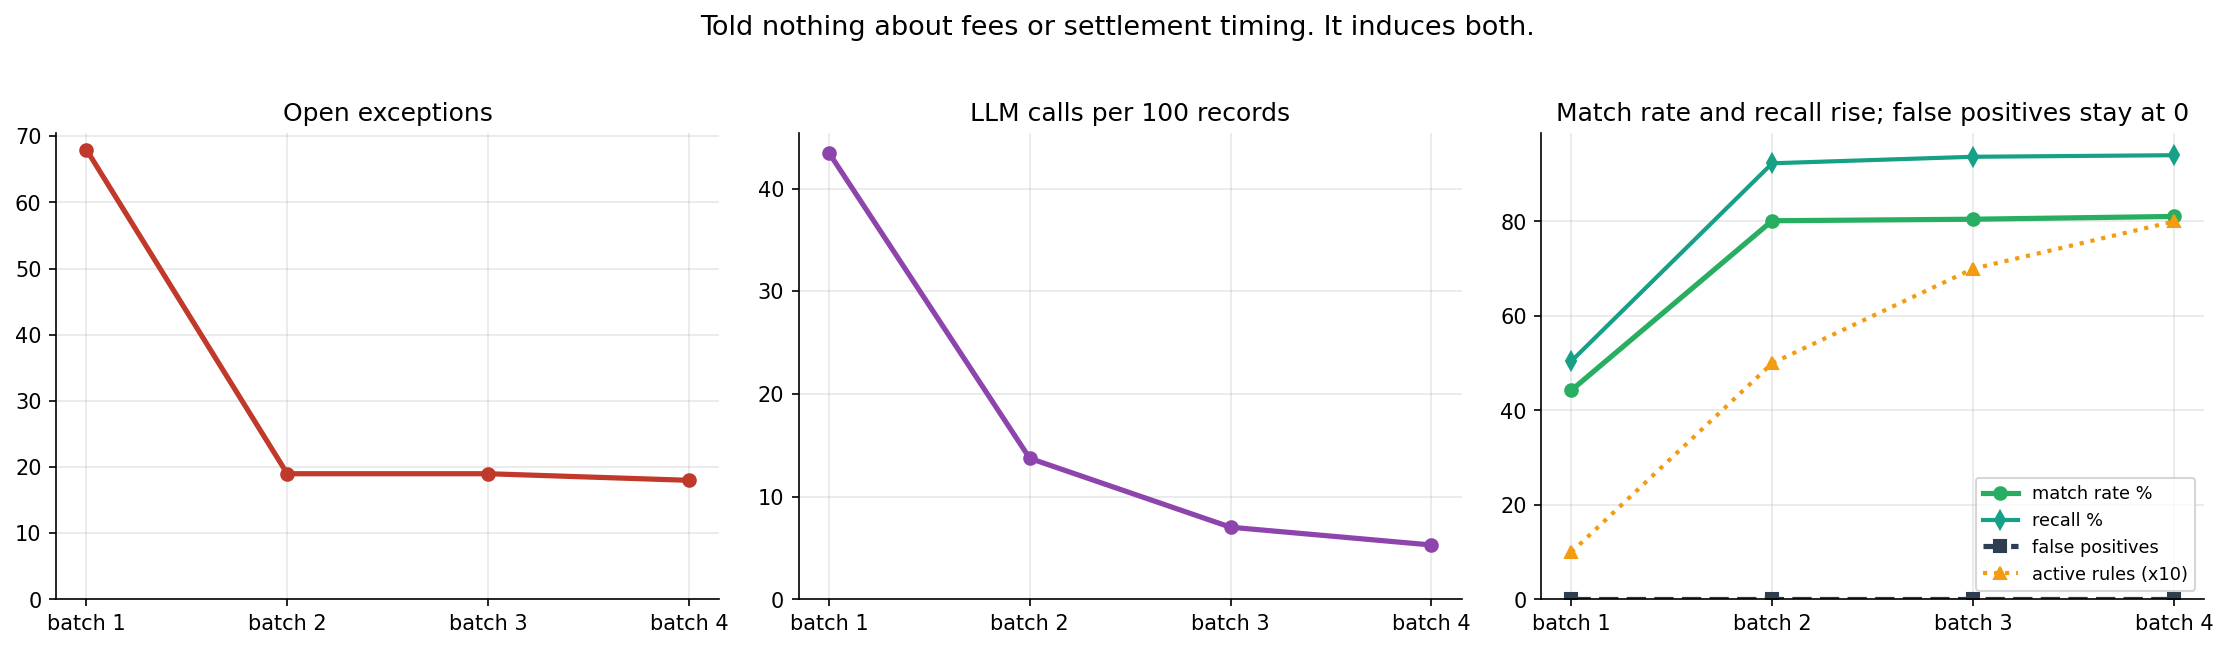
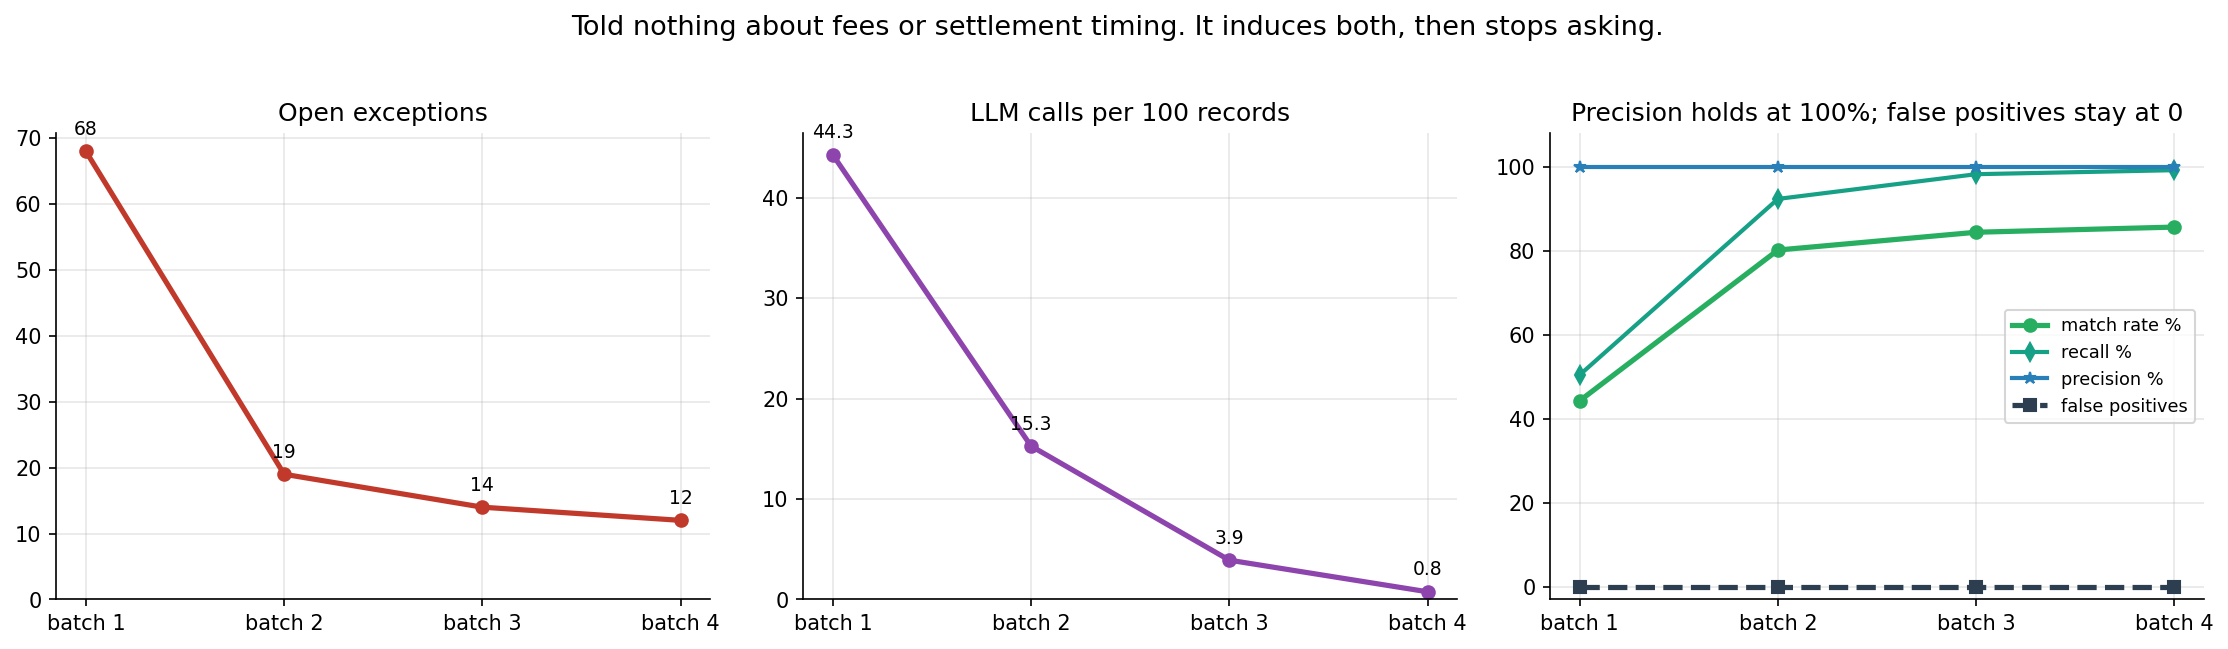
Induce refunds too, and stop rejecting rules for lack of evidence
Follows the discovery leg. Four more defects, each of the same family: a rule
type that could never be learned because something structural stood in the way
before any evidence could accumulate.

A refund rule is scoped library-wide, not per instrument. A partial refund is
the same phenomenon whichever way the customer paid, and asking per instrument
split an already thin pool four ways so nothing reached enough examples.

INAPPLICABLE, not False, when the ledger does not say an order was refunded.
In the matching path the two are equivalent (both fall through to the next
rule), but the backtest reads False as "contradicts a resolved record" -- so a
refund rule accrued a counterexample for every clean settlement in history, 44
out of 44.

The backtest evaluates against the promoted library rather than an empty one.
A refund rule says "the net fell short of what the fee schedule implies", which
is unanswerable without the fee rules; judged alone it was INAPPLICABLE
everywhere and scored zero support forever. Only refund_pattern consults it; a
fee or timing predicate is still judged entirely on its own terms.

Insufficient support is a soft gate. "Nothing in history exercises this yet" is
not "this is wrong", and conflating them made early rejection permanent -- a
rule proposed before its evidence existed was killed off and never
reconsidered, however much arrived later.

  batch 1 -> 4: exceptions 68 -> 12, LLM calls per 100 records 44.3 -> 0.8,
[…]

diff --git a/src/pipeline.py b/src/pipeline.py
@@ -25,7 +25,7 @@ from src.assignment import solve_component
 from src.calendar_utils import working_days_between
 from src.config import load
 from src.db import get_conn, ingest_batch, init_db, reset_db
-from src.deterministic import INAPPLICABLE, RuleSet, evaluate
+from src.deterministic import ALL, INAPPLICABLE, RuleSet, evaluate
 from src.llm_reasoner import LLMReasoner
 from src.rule_engine import process_proposals
 from src.subset_sum import disambiguate, solve
@@ -400,7 +400,8 @@ class BatchRun:
                      exc["exception_id"]))
 
     # ------------------------------------------------------- rule discovery
-    DISCOVERABLE = ("timing_window", "refund_pattern")
+    DISCOVERABLE = {"timing_window": "per_instrument",
+                    "refund_pattern": "library_wide"}
 
     def run_discovery_leg(self):
         """Ask about dimensions that never produce an exception.
@@ -426,14 +427,19 @@ class BatchRun:
         n_samples = cfg.get("samples_per_batch", 3)
         n_examples = cfg.get("examples_per_sample", 5)
 
-        for rule_type in self.DISCOVERABLE:
-            for instrument in self.instruments_seen():
+        min_examples = cfg.get("min_examples_per_sample", 3)
+        for rule_type, scope in self.DISCOVERABLE.items():
+            # A fee or a settlement lag differs by instrument. A partial refund
+            # does not -- it is the same phenomenon whichever way the customer
+            # paid -- so asking per instrument just splits an already thin pool
+            # four ways and nothing ever reaches enough examples.
+            targets = self.instruments_seen() if scope == "per_instrument" else [ALL]
+            for instrument in targets:
                 if self.rules.of_type(rule_type, instrument):
                     continue                     # already known; ask nothing
                 pool = self.discovery_pool(rule_type, instrument)
-                if len(pool) < n_examples:
+                if len(pool) < min_examples:
                     continue
-                min_examples = cfg.get("min_examples_per_sample", 3)
                 for i in range(n_samples):
                     sample = pool[i * n_examples:(i + 1) * n_examples]
                     if len(sample) < min_examples:
@@ -478,11 +484,13 @@ class BatchRun:
                    "   GROUP BY left_id HAVING COUNT(*) = 1)")
         else:   # refund_pattern -- the ledger says these were partly refunded
             sql = ("SELECT o.order_id, o.order_datetime, o.gross_amount_paise,"
-                   " o.status, s.settlement_txn_id, s.settled_datetime,"
-                   " s.net_amount_paise FROM settlements s"
+                   " o.status, s.instrument, s.settlement_txn_id,"
+                   " s.settled_datetime, s.net_amount_paise FROM settlements s"
                    " JOIN orders o ON o.order_id = s.order_id_claimed"
-                   " WHERE s.batch_id=? AND s.instrument=?"
-                   " AND o.status='refunded_partial'")
+                   " WHERE s.batch_id=? AND o.status='refunded_partial'"
+                   " AND (?='ALL' OR s.instrument=?)")
+            return [dict(r) for r in self.conn.execute(
+                sql, (self.batch_id, instrument, instrument))]
         return [dict(r) for r in self.conn.execute(sql, (self.batch_id, instrument))]
 
     def discovery_case(self, rule_type, instrument, sample) -> dict:

diff --git a/tests/test_rule_engine.py b/tests/test_rule_engine.py
@@ -153,15 +153,34 @@ def test_the_backtest_rejects_a_rule_that_contradicts_history(conn):
 
 
 def test_insufficient_backtest_support_blocks_promotion(conn):
-    """A rule nothing in history exercises is unproven, not proven safe."""
+    """A rule nothing in history exercises is unproven, not proven safe -- and
+    not proven WRONG either, so it stays pending rather than being rejected.
+    Rejecting it would be permanent: a refund rule proposed before any fee rule
+    exists has no expected net to compare against, and would be killed off
+    before the evidence it needs could ever arrive."""
     ingest_batch(conn, "1")
     propose(conn, true_fee("UPI"), times=5, confidence=0.99)
     out = review_pending(conn)
     assert out["promoted"] == []
-    detail = json.loads(conn.execute(
-        "SELECT detail_json FROM rule_audit WHERE event='rejected'"
-        " ORDER BY audit_id DESC").fetchone()["detail_json"])
-    assert detail["gates"]["backtest"]["support"] == 0
+    assert out["rejected"] == []
+    assert len(out["pending"]) == 1
+
+    passed, report = check_gate(conn, conn.execute(
+        "SELECT * FROM rule_proposals").fetchone())
+    assert not passed
+    assert report["gates"]["backtest"]["support"] == 0
+    assert report["gates"]["backtest"]["insufficient_support"] is True
+
+
+def test_a_rule_rejected_for_lack_of_evidence_can_still_be_promoted_later(conn):
+    """The regression: early rejection must not be a death sentence."""
+    ingest_batch(conn, "1")
+    propose(conn, true_fee("UPI"), times=3, confidence=0.95)
+    assert review_pending(conn)["promoted"] == []      # no history yet
+
+    seed_matches(conn, "UPI", limit=10)                # evidence arrives
+    out = review_pending(conn)
+    assert len(out["promoted"]) == 1, "must be reconsidered once evidence exists"
 
 
 def test_a_rule_overlapping_an_active_one_is_rejected(conn):
@@ -252,10 +271,13 @@ class Proposer:
 
     def resolve(self, case):
         self.calls += 1
-        instr = case["record"].get("instrument")
         self.tokens_in += 400
         self.tokens_out += 150
-        if not instr:
+        instr = case["record"].get("instrument")
+        # This double only knows about fees. Discovery cases (which carry a
+        # "focus" and may be library-wide) are answered by Observer in
+        # tests/test_discovery.py.
+        if case.get("focus") or instr not in MDR:
             return LLMVerdict(confidence=0.1)
         return LLMVerdict(verdict="insufficient_information", confidence=0.9,
                           proposed_rule=true_fee(instr),

diff --git a/src/deterministic.py b/src/deterministic.py
@@ -206,10 +206,13 @@ def evaluate(pred: dict, left, right, rules: "RuleSet | None" = None):
         if gross is None or net is None or rules is None:
             return INAPPLICABLE
         status = _d(left, "status")
-        if status is None:
+        if status is None or status != "refunded_partial":
+            # No opinion, not a denial. In the matching path these are
+            # equivalent (both fall through to the next rule), but the backtest
+            # reads False as "contradicts a resolved record" -- so returning it
+            # here made every clean settlement in history count against the
+            # rule, 44 out of 44, and it could never be promoted.
             return INAPPLICABLE
-        if status != "refunded_partial":
-            return False
         expected = rules.expected_net(gross, instr)
         if expected is None:
             return INAPPLICABLE
@@ -387,7 +390,13 @@ def backtest(conn, predicate, exclude_batch=None) -> dict:
     up immediately. That is the gate catching a plausible-looking wrong answer.
     """
     predicate = validate_predicate(predicate)
-    rules = RuleSet([])
+    # The already-promoted library, for rules that depend on it. A refund rule
+    # says "the net fell short of what the fee schedule implies", which is
+    # unanswerable without the fee rules -- judged against an empty library it
+    # is INAPPLICABLE everywhere, scores zero support, and can never be
+    # promoted. Only refund_pattern consults this; a fee or timing predicate is
+    # still evaluated entirely on its own terms.
+    rules = RuleSet.load(conn)
 
     # Two independent sources of already-resolved evidence, unioned:
     #
@@ -444,7 +453,10 @@ def backtest(conn, predicate, exclude_batch=None) -> dict:
         if o["order_id"] in split_orders:
             skipped += 1
             continue
-        if o["status"] != "captured":
+        # A refund rule's whole subject is refunded orders, so skipping them
+        # would leave it permanently without evidence. For every other rule
+        # type they are noise.
+        if predicate.get("type") != "refund_pattern" and o["status"] != "captured":
             # The merchant's own ledger says this order was refunded, so a
             # short settlement is expected. Holding that against a fee rule
             # would be scoring it on a question it was never asked. This is

diff --git a/src/rule_engine.py b/src/rule_engine.py
@@ -154,6 +154,12 @@ def check_gate(conn, proposal, cfg=None) -> tuple[bool, dict]:
         "noise_band_paise": noise_band,
         "contradictions_within_noise": within_noise,
         "counterexample_money_paise": money_at_risk,
+        # "Nothing in history exercises this rule yet" is not the same as "this
+        # rule is wrong", and conflating them makes early rejection permanent:
+        # a refund rule proposed before any fee rule exists has no expected net
+        # to compare against, scores zero support, is rejected, and is never
+        # reconsidered however much evidence arrives later.
+        "insufficient_support": bt["support"] < cfg["min_backtest_support"],
         "passed": (bt["support"] >= cfg["min_backtest_support"]
                    and effective_precision >= cfg["backtest_precision_floor"]
                    and not fatal)}
@@ -225,6 +231,18 @@ def reject(conn, proposal, report):
     log.info("rejected proposal %s on gate(s) %s", proposal["proposal_id"], reason)
 
 
+def soft_gates(report) -> set:
+    """Gates whose failure means "not yet", not "no".
+
+    A proposal that fails only these stays pending and gets another look next
+    batch. Anything else is a real verdict and is recorded as a rejection.
+    """
+    soft = {"occurrence", "confidence"}
+    if report["gates"]["backtest"].get("insufficient_support"):
+        soft.add("backtest")
+    return soft
+
+
 def review_pending(conn, batch_id=None, cfg=None) -> dict:
     """Run the gate over every pending proposal. Rejections are as much the
     point as promotions -- they are the evidence the gate is load-bearing."""
@@ -235,7 +253,7 @@ def review_pending(conn, batch_id=None, cfg=None) -> dict:
         passed, report = check_gate(conn, p, cfg)
         if passed:
             promoted.append(promote(conn, p, report))
-        elif set(report["failed_gates"]) <= {"occurrence", "confidence"}:
+        elif set(report["failed_gates"]) <= soft_gates(report):
             # not enough evidence *yet* -- leave it pending for a later batch
             still_pending.append(p["proposal_id"])
         else:

diff --git a/tests/test_deterministic.py b/tests/test_deterministic.py
@@ -143,10 +143,15 @@ def test_refund_pattern_is_inapplicable_until_a_fee_rule_exists():
 def test_refund_pattern_requires_the_ledger_to_say_it_was_refunded():
     """Without this condition the rule reads 'any shortfall is a refund', which
     would explain away every genuine mismatch in the batch. The status column
-    is the merchant's own ledger data, not ground truth."""
+    is the merchant's own ledger data, not ground truth.
+
+    A captured order is INAPPLICABLE rather than False: in the matching path
+    the two are equivalent, but the backtest reads False as 'contradicts a
+    resolved record', which would make every clean settlement count against
+    the rule and block it forever."""
     learned = RuleSet([rule(1, "fee_formula", "CARD_CREDIT", fee_pred())])
     captured = order(status="captured")
-    assert evaluate(REFUND, captured, stl(net=50_000), learned) is False
+    assert evaluate(REFUND, captured, stl(net=50_000), learned) == INAPPLICABLE
     refunded = order(status="refunded_partial")
     assert evaluate(REFUND, refunded, stl(net=50_000), learned) is True
 
@@ -161,6 +166,16 @@ def test_refund_pattern_has_no_opinion_without_a_status():
     learned = RuleSet([rule(1, "fee_formula", "CARD_CREDIT", fee_pred())])
     no_status = {k: v for k, v in order().items() if k != "status"}
     assert evaluate(REFUND, no_status, stl(net=50_000), learned) == INAPPLICABLE
+
+
+def test_a_refund_rule_is_not_contradicted_by_ordinary_settlements():
+    """The regression: it must not accrue a counterexample for every clean
+    record in history."""
+    from src.deterministic import backtest
+    learned = RuleSet([rule(1, "fee_formula", "CARD_CREDIT", fee_pred())])
+    for net in (96_400, 96_401, 50_000):
+        assert evaluate(REFUND, order(status="captured"),
+                        stl(net=net), learned) == INAPPLICABLE
 
 
 # --------------------------------------------------------------- rule set

diff --git a/tests/test_discovery.py b/tests/test_discovery.py
@@ -117,9 +117,9 @@ def test_discovery_stops_once_the_rule_is_known(conn):
     per-batch tax rather than a one-off cost of learning."""
     _, summaries = run(conn)
     per_batch = [s.get("discovery_cases", 0) for s in summaries]
-    assert per_batch[0] == 0, "batch 1 has no resolved records to sample yet"
     assert max(per_batch) > 0, "discovery must actually run"
     assert per_batch[-1] < max(per_batch), f"must taper: {per_batch}"
+    assert per_batch[-1] <= 3, f"should be near-silent once learned: {per_batch}"
 
 
 def test_discovery_asks_nothing_about_a_rule_already_active(conn):

diff --git a/tests/test_llm_reasoner.py b/tests/test_llm_reasoner.py
@@ -327,7 +327,8 @@ def test_only_escalatable_exceptions_reach_the_model(conn):
 
     assert r.calls > 40, "the unexplained fees must be escalated"
     assert r.calls_avoided > 0, "unsettled orders must NOT be escalated"
-    reasons = {c["reason_code"] for c in r.seen}
+    # discovery cases carry a focus and are a separate, bounded channel
+    reasons = {c["reason_code"] for c in r.seen if not c.get("focus")}
     assert reasons <= BatchRun.ESCALATABLE
     assert "NO_SETTLEMENT" not in reasons
 

diff --git a/README.md b/README.md
@@ -66,22 +66,27 @@ unforgiving because the domain is money.
 
 ```
  batch  excep   llm  /100rec  avoided   match    prec  recall   FP  rules   cost
-     1     68    57     43.5       11   44.3%  100.0%   50.4%    0      1     68
-     2     19    18     13.7       10   80.2%  100.0%   92.3%    0      5     19
-     3     19     9      7.0       12   80.5%  100.0%   93.7%    0      7     19
-     4     18     7      5.3       11   81.1%  100.0%   94.0%    0      8     18
-   adv      8     8     16.0        0   70.0%  100.0%   72.7%    0      8      8
+     1     68    58     44.3       11   44.3%  100.0%   50.4%    0      1     68
+     2     19    20     15.3       10   80.2%  100.0%   92.3%    0      5     19
+     3     14     5      3.9       12   84.4%  100.0%   98.2%    0      8     14
+     4     12     1      0.8       11   85.6%  100.0%   99.2%    0      9     12
+   adv      5     5     10.0        0   76.0%  100.0%   79.5%    0      9      5
 ```
 
 | | batch 1 | batch 4 |
 |---|---|---|
-| Open exceptions | 68 | 18 |
-| LLM calls per 100 records | 43.5 | 5.3 |
-| Match rate | 44.3% | 81.1% |
-| Recall | 50.4% | 94.0% |
+| Open exceptions | 68 | 12 |
+| LLM calls per 100 records | 44.3 | **0.8** |
+| Match rate | 44.3% | 85.6% |
+| Recall | 50.4% | 99.2% |
 | Precision | 100% | 100% |
 | **False positives** | **0** | **0** |
-| Active rules | 1 | 8 |
+| Active rules | 1 | 9 |
+
+By batch 4 the deterministic layer answers essentially everything: **less than
+one LLM call per hundred records**, down from forty-four. That is the whole
+thesis — the model is expensive and fallible, so use it to write rules once,
+not to make decisions forever.
 
 The adversarial set scores lower on recall by design: its `off_by_one_day`
 records settle a working day outside the learned window, so they are flagged
@@ -101,6 +106,7 @@ NETBANKING   deducts a flat 1200 paise, plus 18% GST on that fee
 UPI          settles 1 working day after the order
 CARD_DEBIT   settles 2 working days after the order
 CARD_CREDIT  settles 2 working days after the order
+ALL          a net below the fee-implied net indicates a partial refund
 ```
 
 Both halves of the merchant's fingerprint: the fee schedule and the settlement
@@ -267,7 +273,7 @@ and **no rules promoted**, because nothing is proposing any. That is the
 correct cold-start behaviour, not a failure — see the note above the results.
 
 Add `--no-llm` to skip the escalation attempt entirely. `python -m pytest` runs
-347 tests and needs no API key; the model is stubbed throughout.
+349 tests and needs no API key; the model is stubbed throughout.
 
 Ask it things:
 

diff --git a/docs/ARCHITECTURE.md b/docs/ARCHITECTURE.md
@@ -238,7 +238,7 @@ was never asked. That status column is ledger data, not ground truth.
 ## What is verified, and what is not
 
 The deterministic layers, the gate, the metrics and the storage are exercised
-by 347 tests and by full runs over five batches, with the proposal step driven
+by 349 tests and by full runs over five batches, with the proposal step driven
 by a test double.
 
 The proposal step has separately been run live (Gemini 3.1 Flash Lite, batch 1,
